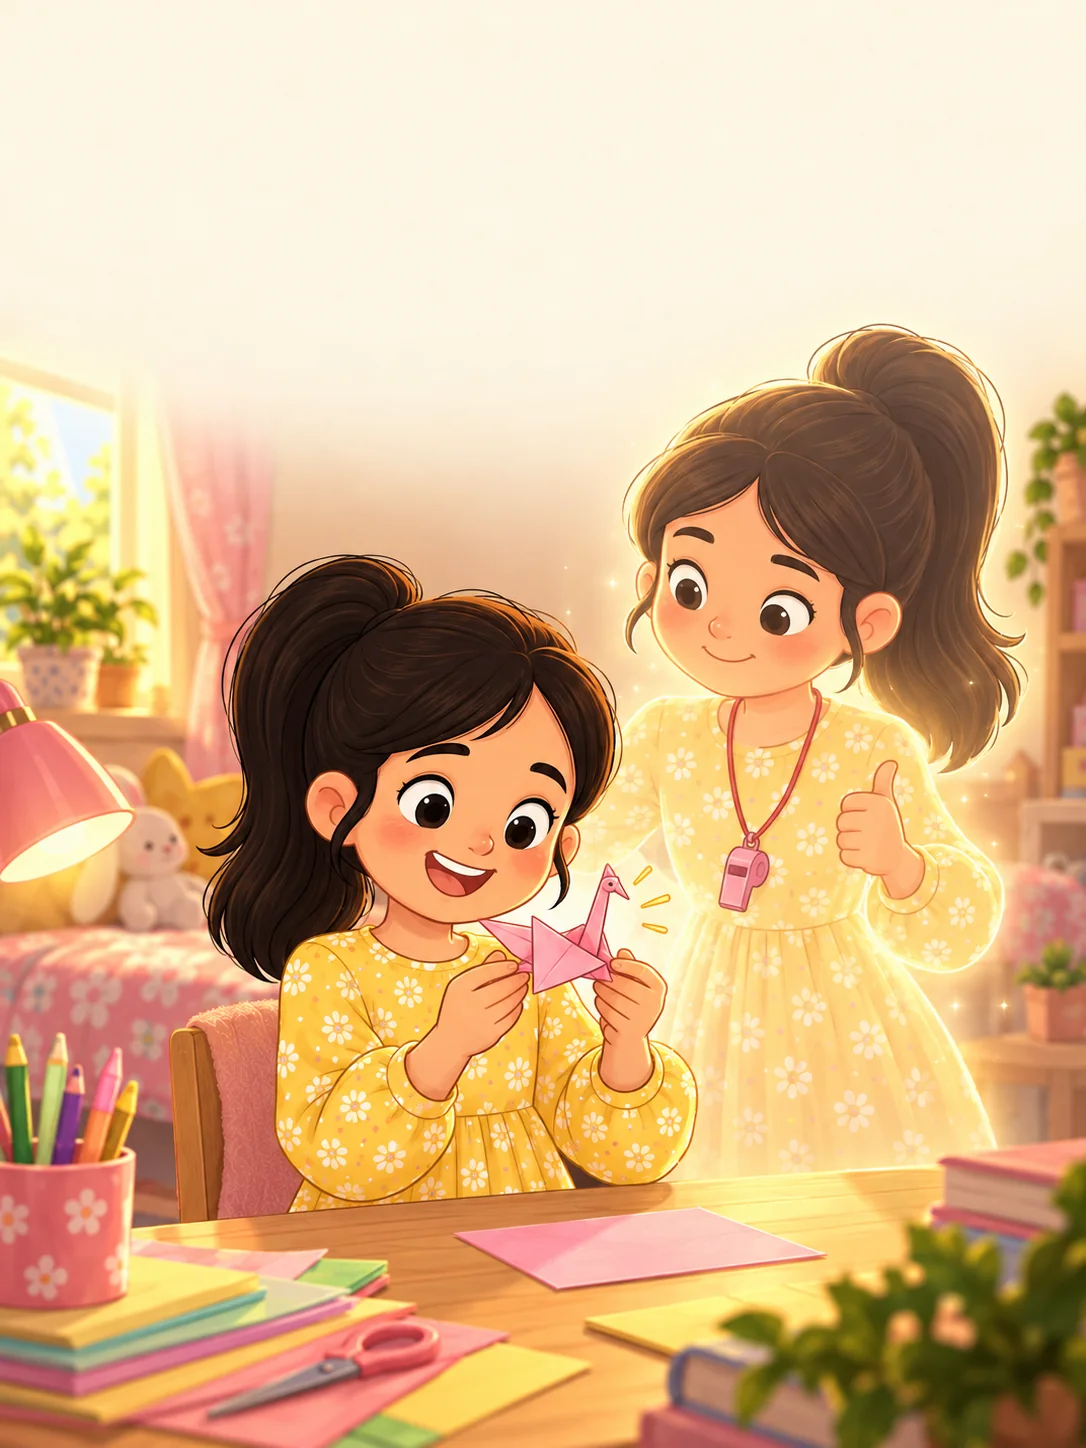
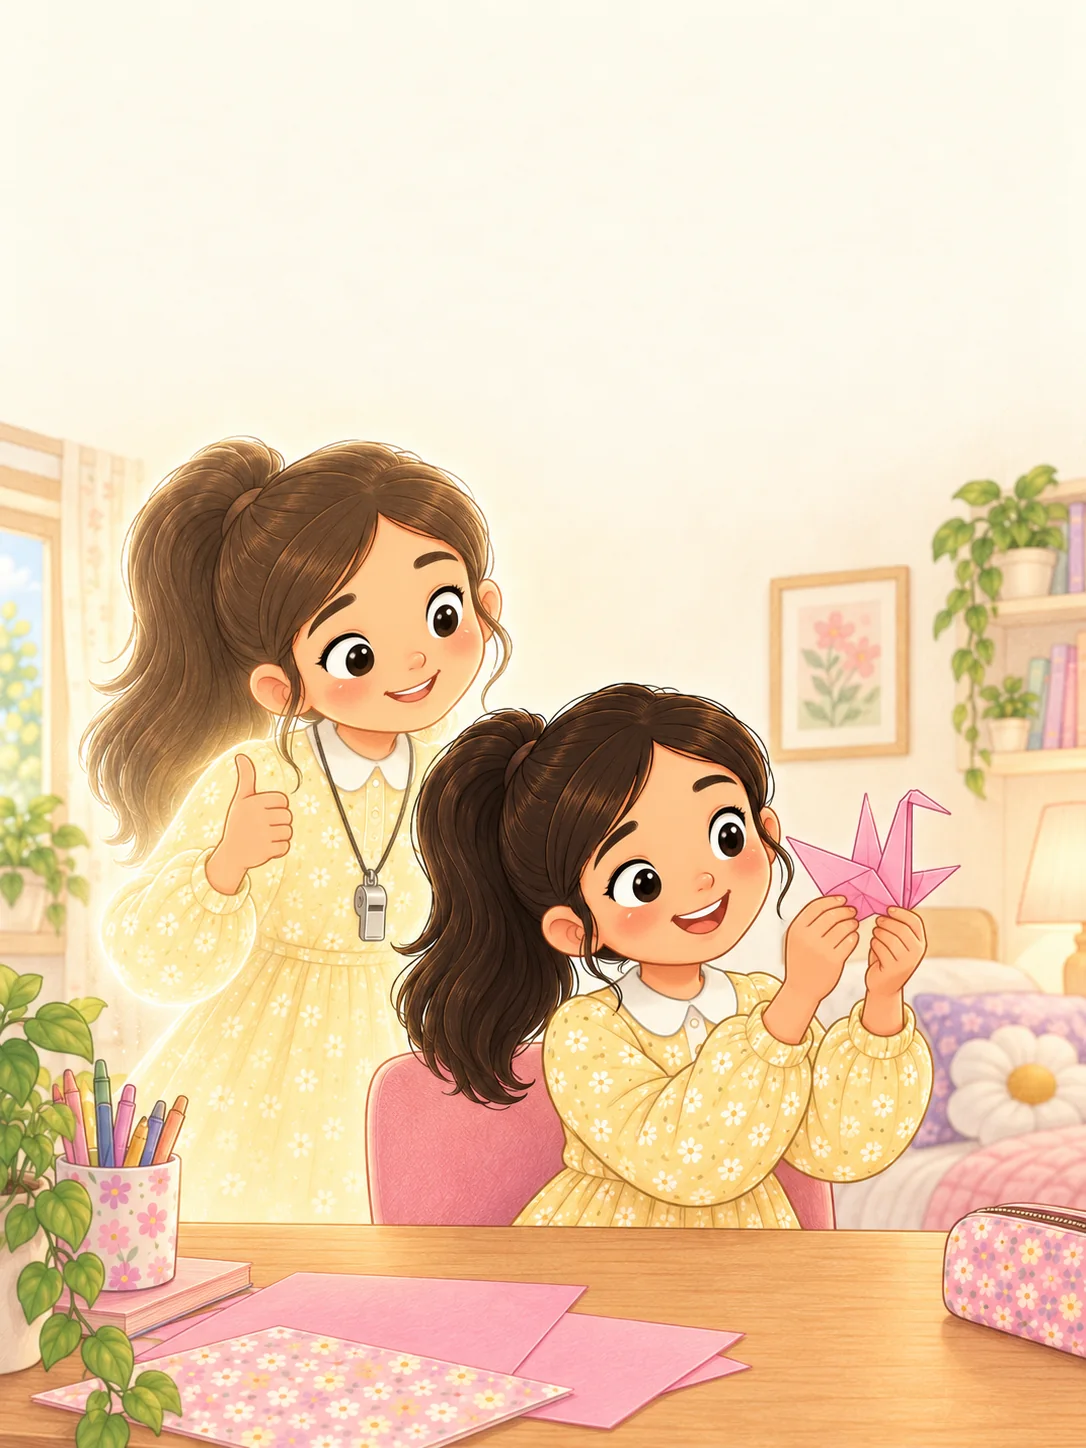
مكتبتي: Day 36 redrawn in the Month 2 style; service worker v64

diff --git a/sw.js b/sw.js
@@ -2,7 +2,7 @@
    Bump VERSION on every deploy so the iPad picks up new files (sets.json, audio/). */
 // The same file serves both apps: Talk Cards registers sw.js, Prepositions registers sw.js?app=prepositions.
 const APP = new URL(location.href).searchParams.get('app') === 'prepositions' ? 'prepositions' : 'talk-cards';
-const VERSION = APP + '-v63';
+const VERSION = APP + '-v64';
 const FILES = APP === 'prepositions' ? [
   './',
   'index.html',
